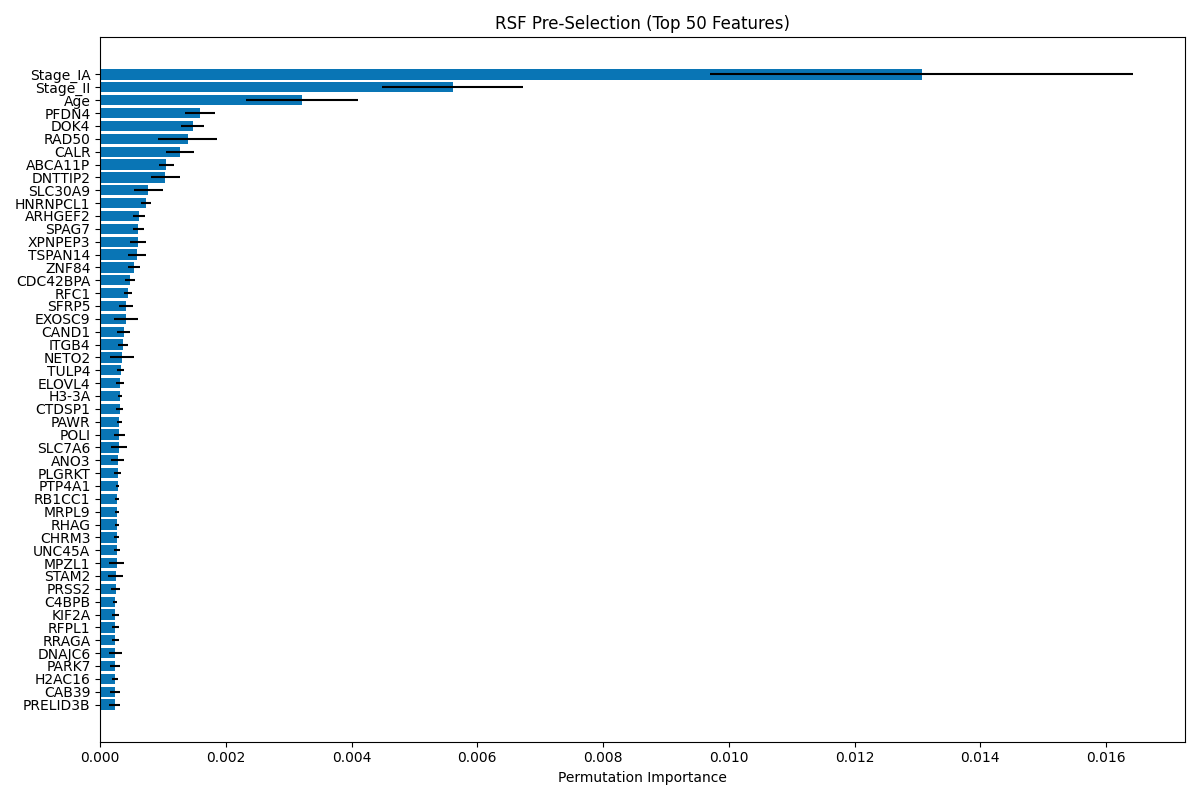
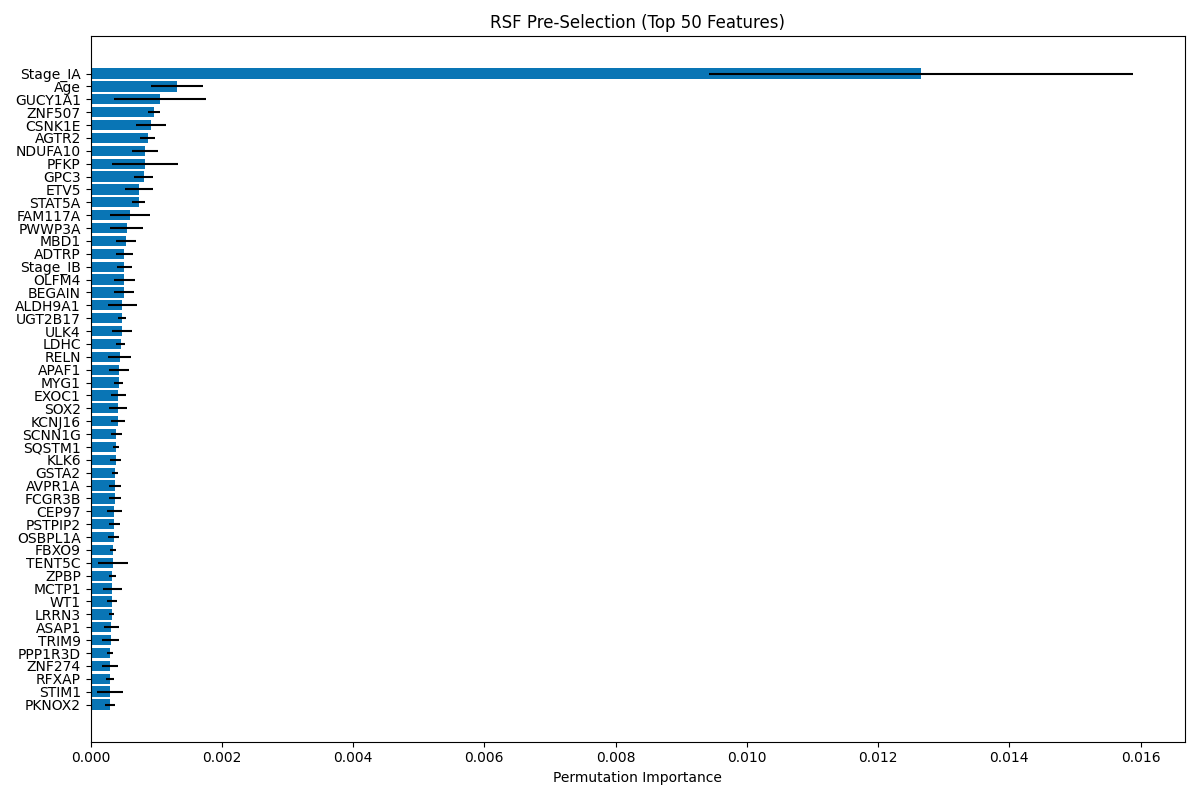
associated feature imp

diff --git a/rsf/one-forest-affy.py b/rsf/one-forest-affy.py
@@ -79,13 +79,66 @@ X_valid = valid.drop(columns=['OS_STATUS', 'OS_MONTHS'])
 # Make RSF 
 # {'max_depth': 10, 'max_features': 500, 'min_samples_leaf': 60, 'n_estimators': 750}
 rsf = RandomSurvivalForest(
-    n_estimators=750,
-    max_depth=2,
-    min_samples_leaf=60,
-    max_features=500,
+    n_estimators=500,
+    max_depth=5,
+    min_samples_leaf=70,
+    max_features=0.2,
     random_state=42,
     n_jobs=-1
 )
+
+"""
+n_estimators = 500
+max_depth = 5
+min_samples_leaf = 70
+max_features = 0.1  # 0.1 * 13062 = 1306
+Training C-index: 0.7802
+Validation C-index: 0.6985
+
+max_depth = 4 
+Training C-index: 0.7802
+Validation C-index: 0.6984
+
+max_depth = 3
+Training C-index: 0.7780
+Validation C-index: 0.6989
+
+max_depth = 2
+Training C-index: 0.7578
+Validation C-index: 0.6947
+
+max_depth = 1
+Training C-index: 0.7041
+Validation C-index: 0.6848
+
+n_estimators=500,
+    max_depth=5,
+    min_samples_leaf=70,
+    max_features=0.2,
+    random_state=42,
+    n_jobs=-1
+Training C-index: 0.7884
+Validation C-index: 0.7013
+
+max_features=0.5,
+Training C-index: 0.7943
+Validation C-index: 0.7061
+
+max_features = None
+Training C-index: 0.7955
+Validation C-index: 0.7041
+
+maybe there is a relationship between max_features and n_estimators
+as n_estimaors increases, max_features can be smaller --> more stable estimates, pushing down of spurious links
+"""
+
+""" 
+param_grid = {
+                "n_estimators": [500, 750, 1000],
+                "min_samples_leaf": [50, 60, 70],    
+                "max_features": ["sqrt", 500, 0.1], # 0.1 * 13062 = 1306
+                "max_depth": [2, 3, 4, 5],
+            }"""
 
 # Fit the model
 print("Fitting Random Survival Forest model...")
@@ -118,7 +171,7 @@ print(f"Test C-index: {test_c_index:.4f}")
 # Print actual max depth and number of trees
 print(f"Actual max depth: {rsf.max_depth}")
 print(f"Number of trees in the forest: {len(rsf.estimators_)}")
-
+""""
 # Run permutation importance
 perm_result = permutation_importance(rsf, X_train, y_train,
                                        scoring=lambda est, X, y: rsf_concordance_metric(y, est.predict(X)),
@@ -145,3 +198,4 @@ preselect_plot = os.path.join(output_dir, f"{current_date}_rsf_preselection_impo
 plt.savefig(preselect_plot)
 plt.close()
 print(f"RSF pre-selection plot saved to {preselect_plot}")
+"""

diff --git a/rsf/rsf-gsvs-affy.py b/rsf/rsf-gsvs-affy.py
@@ -138,9 +138,9 @@ def create_rsf(train_df, test_df, name):
             # Define parameter grid for grid search
             param_grid = {
                 "n_estimators": [500, 750],
-                "min_samples_leaf": [50, 60, 70, 80],    
-                "max_features": ["sqrt", 500, 0.1], # 0.1 * 13062 = 1306
-                "max_depth": [2, 5, 10],
+                "min_samples_leaf": [50, 60, 70],    
+                "max_features": [500, 0.1, 0.2], # 0.1 * 13062 = 1306
+                "max_depth": [3, 4, 5],
             }
 
             # Set up outer and inner KFold CV for nested CV (using 3 folds instead of 5)
